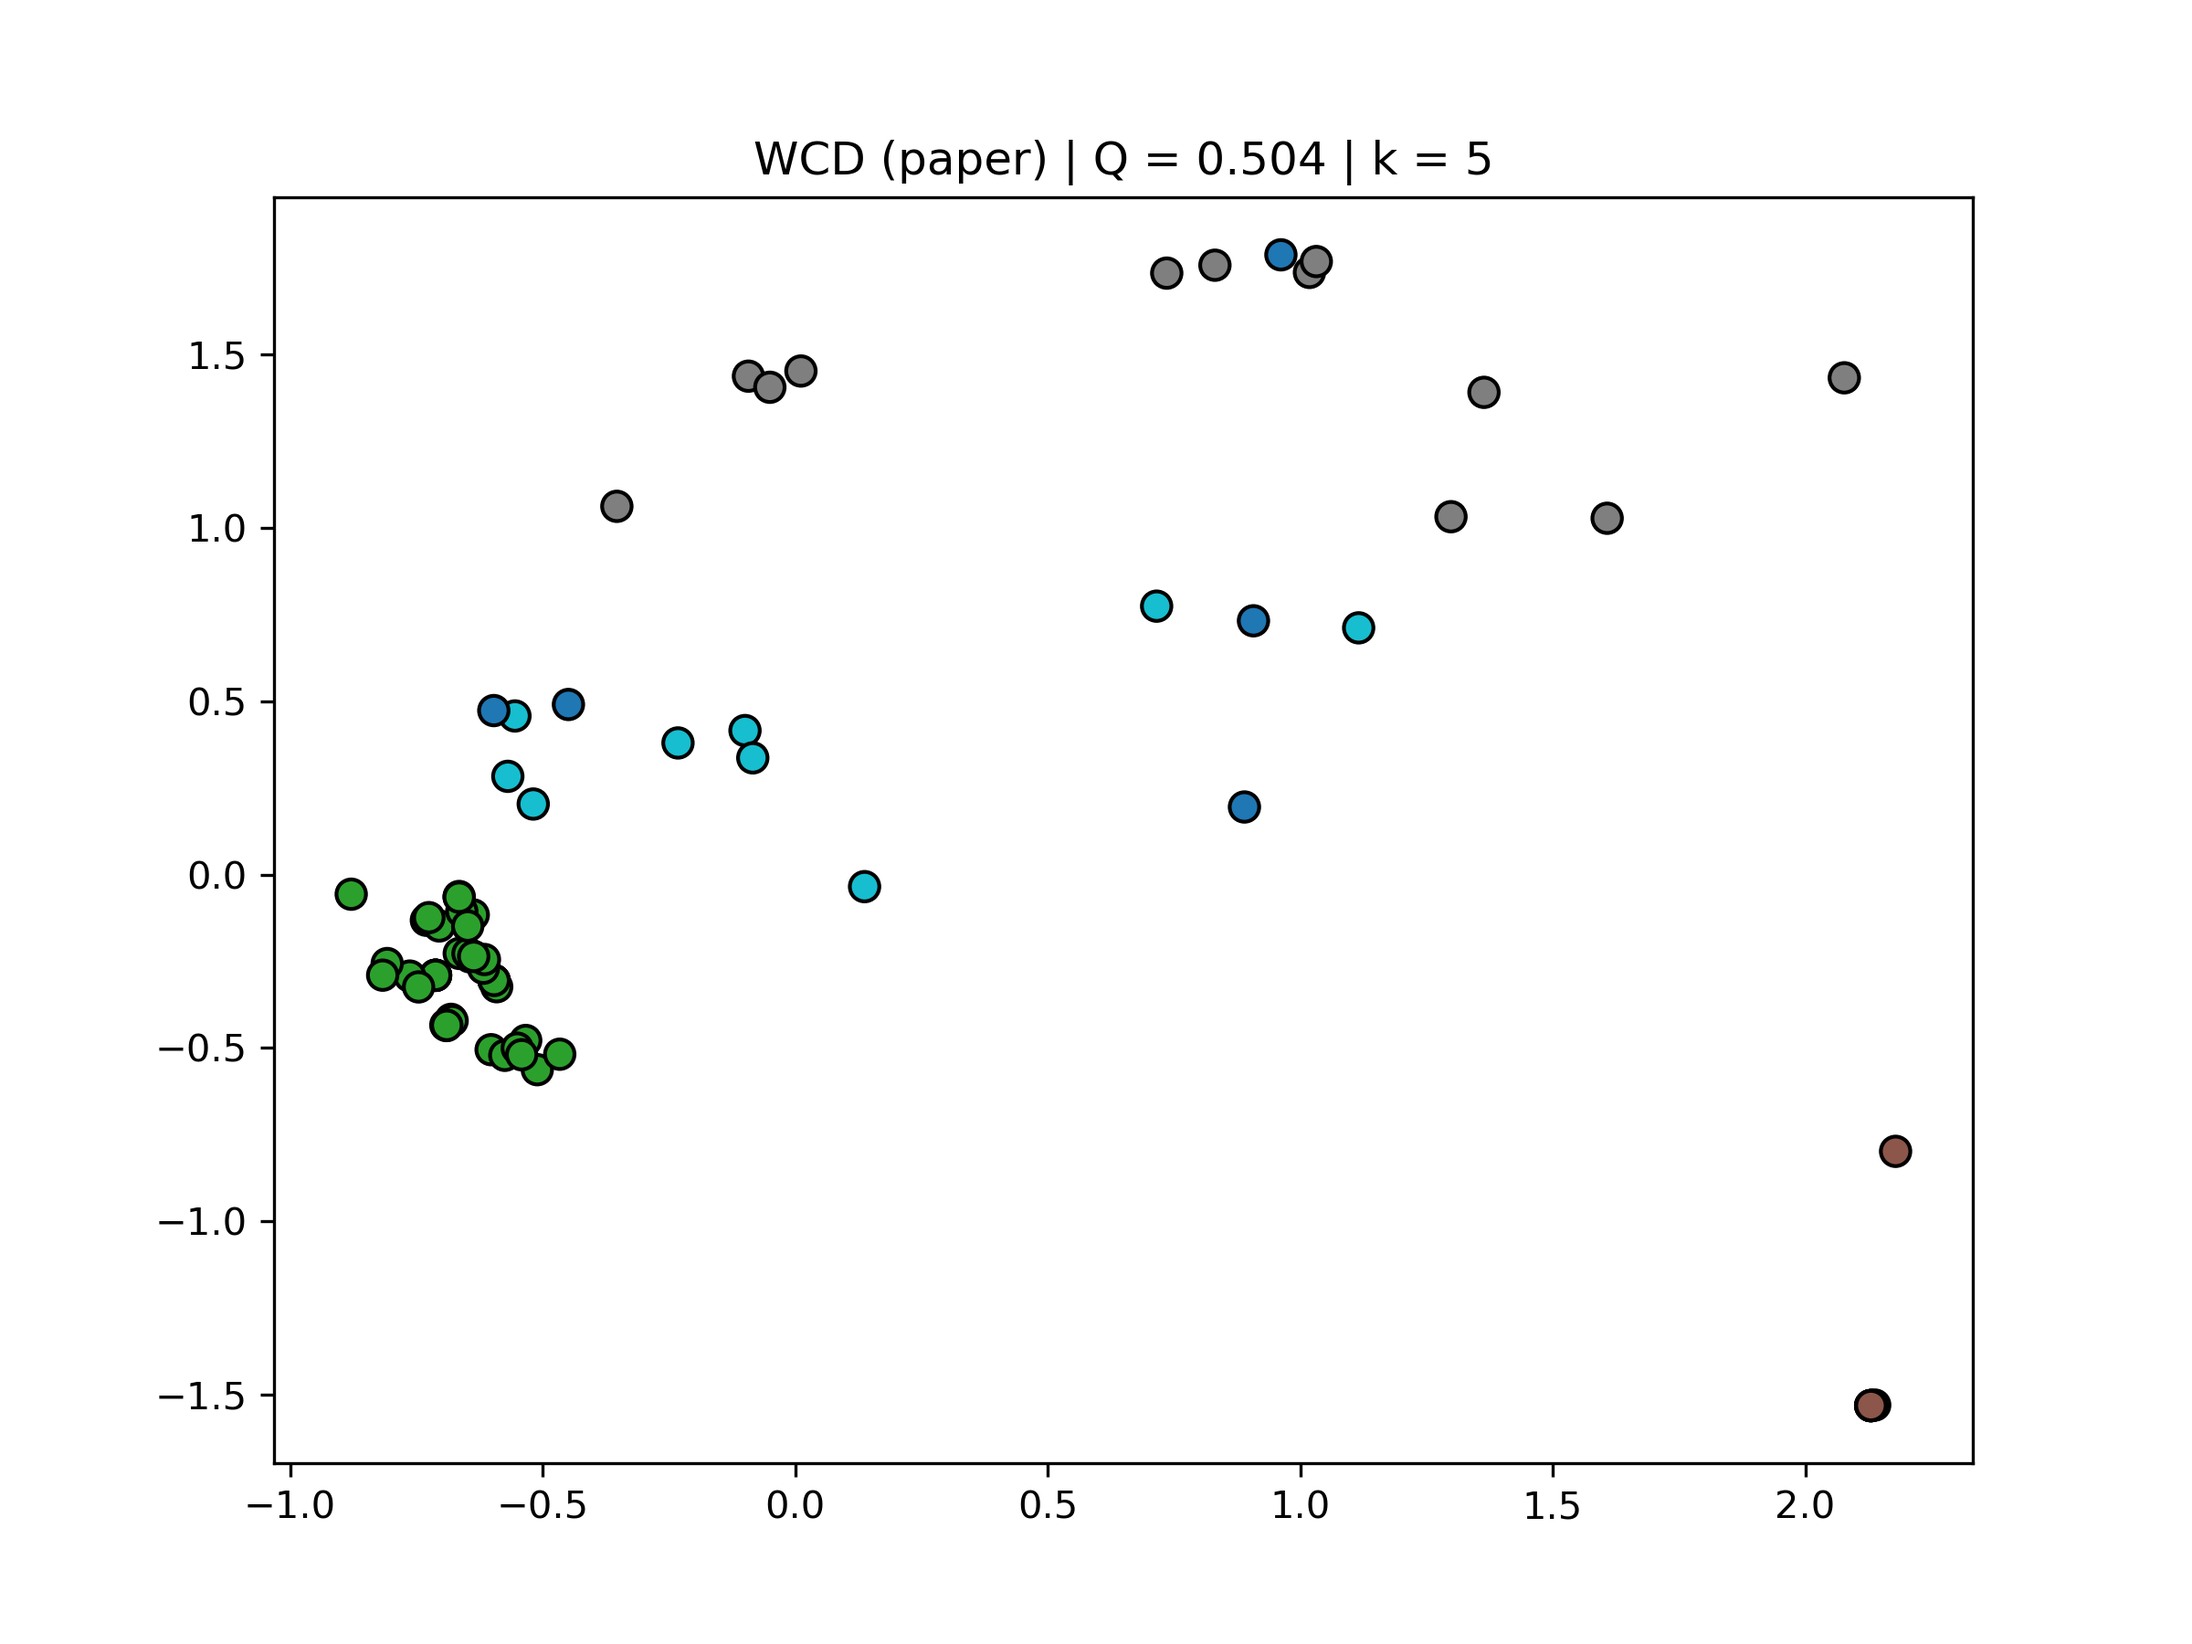
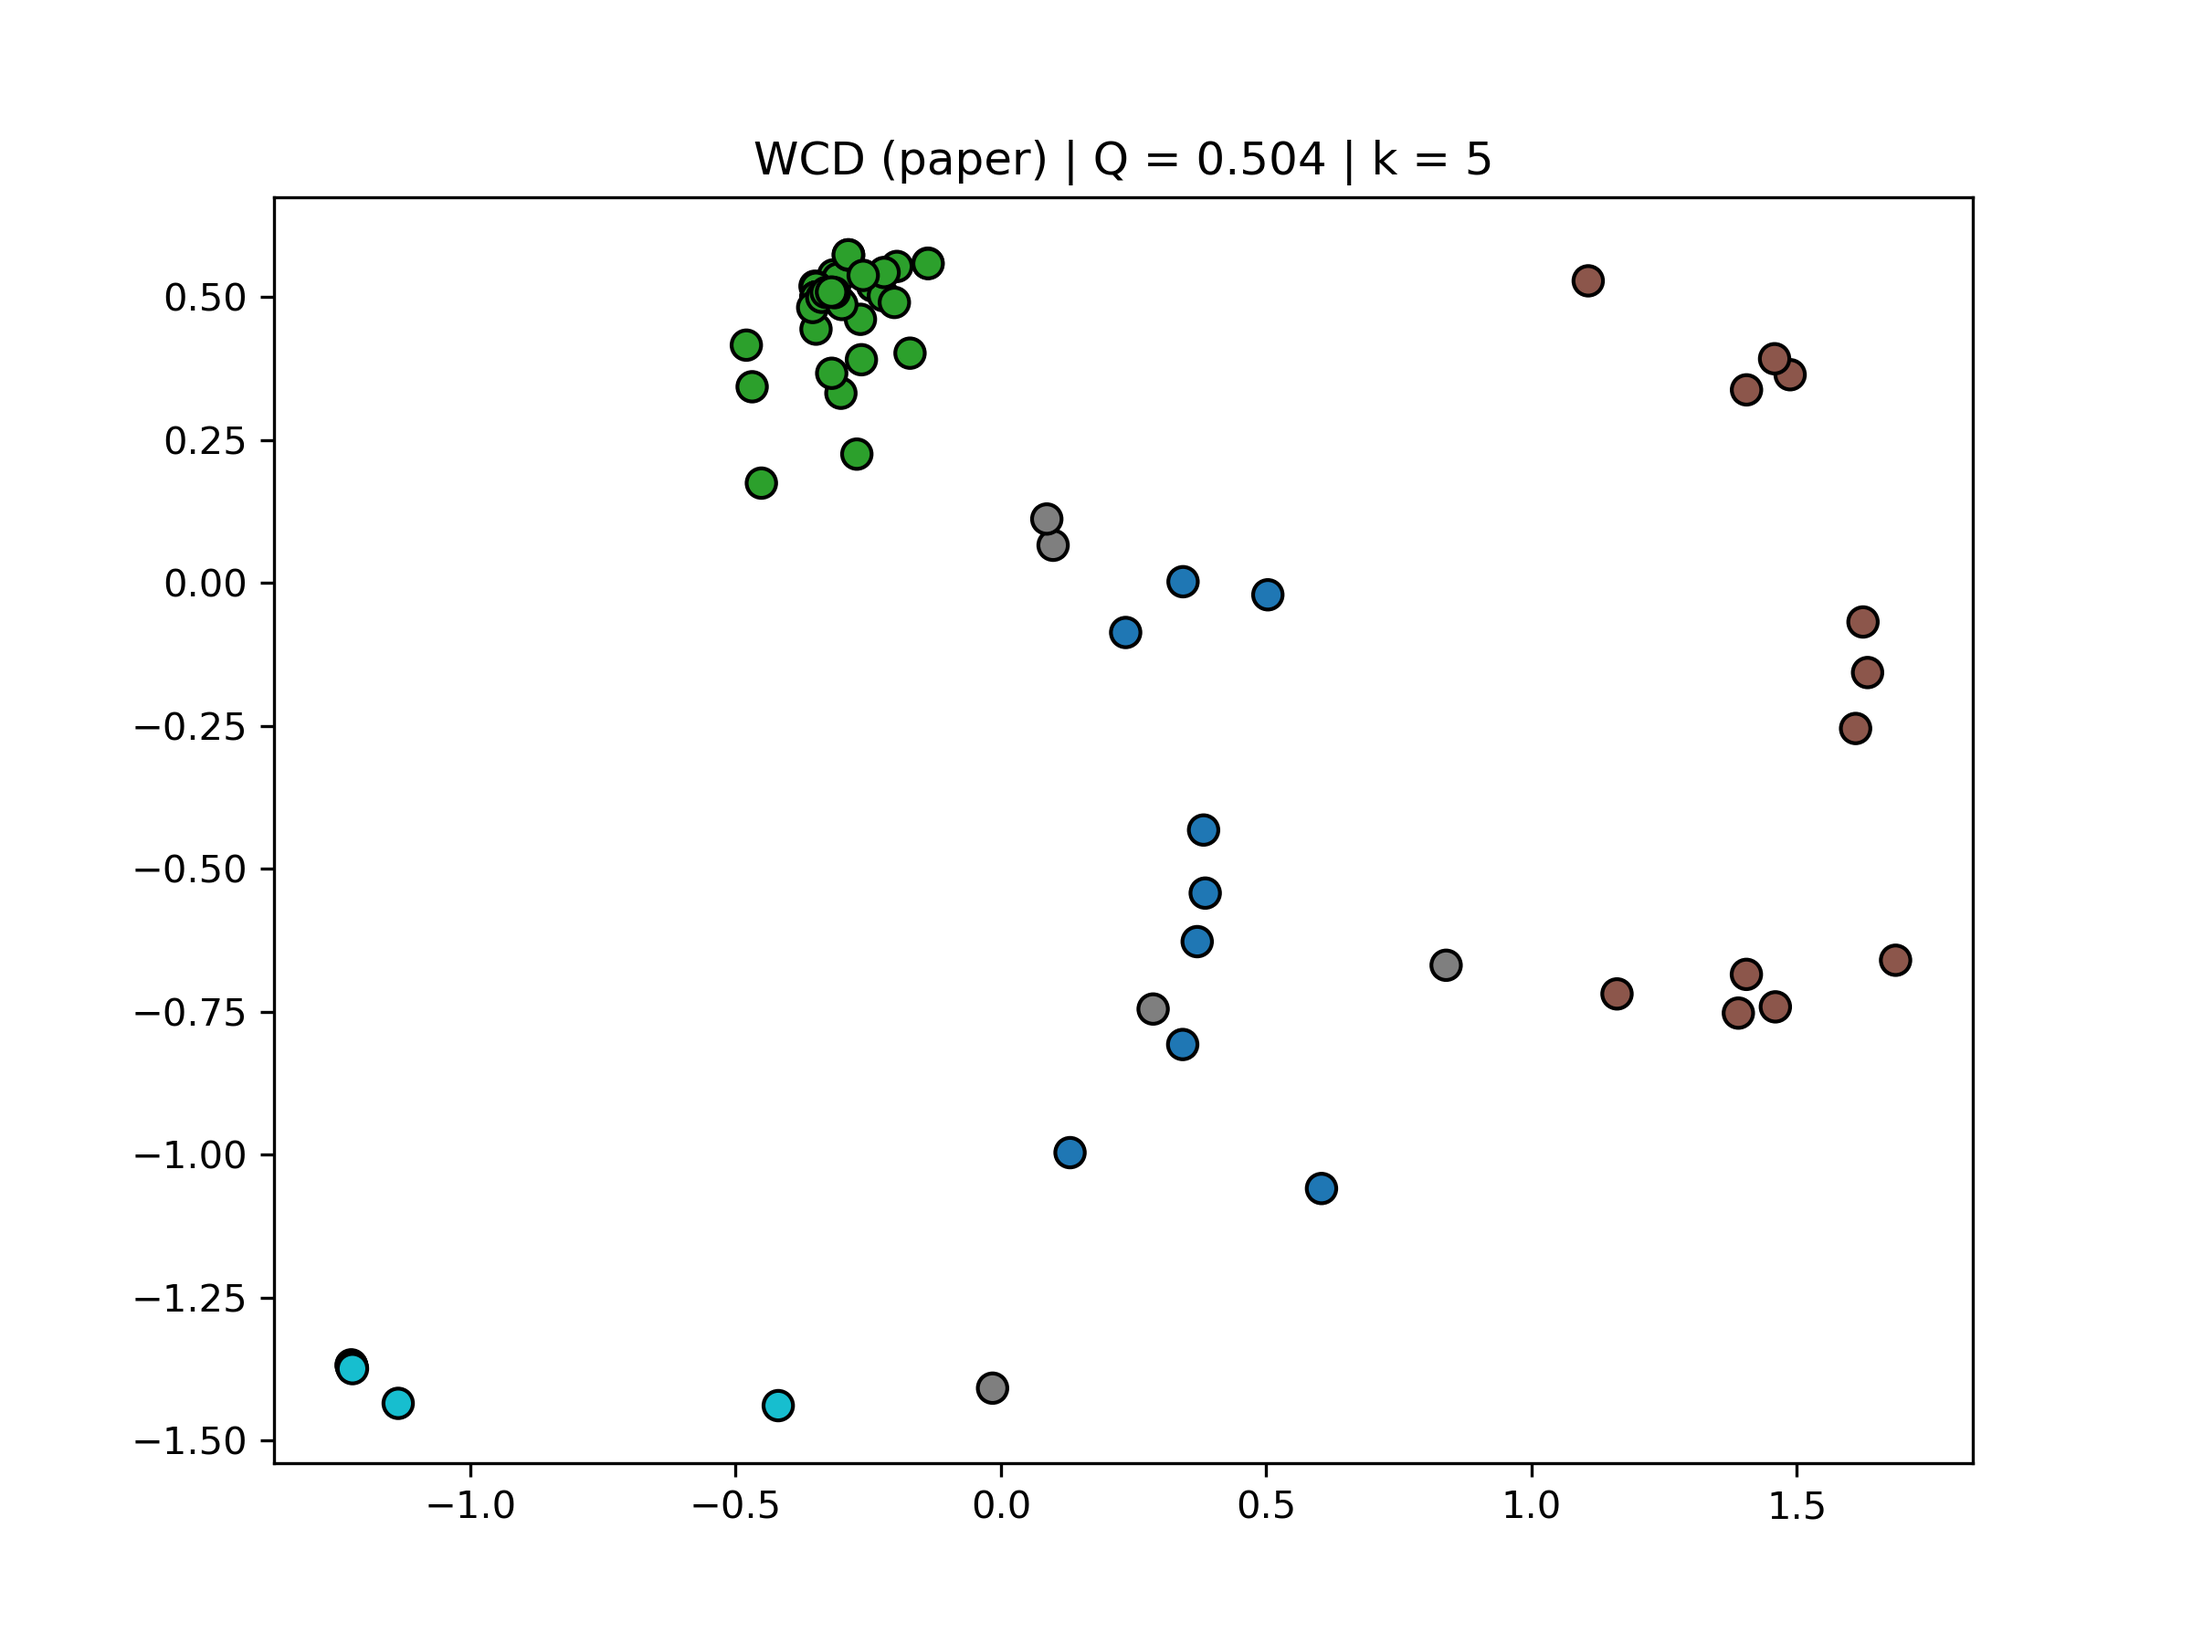
/test/对 lesmis进行初步参数确认，优化到0.5

diff --git a/wcd_fixed_time.py b/wcd_fixed_time.py
@@ -194,7 +194,7 @@ def main():
     set_seed(0)
 
     # 输入数据路径（请根据实际情况修改）
-    input_path = Path("football.txt")          # 示例数据集
+    input_path = Path("lesmis.txt")          # 示例数据集
     dataset_name = input_path.stem
     out_dir = Path(f"wcd_paper_{dataset_name}")
     out_dir.mkdir(parents=True, exist_ok=True)
@@ -209,7 +209,7 @@ def main():
     A = (W > 0).astype(int)                   # 未加权邻接矩阵
 
     # ---------- 算法 1：计算三个特征矩阵 ----------
-    X = compute_X(W, A, alpha=0.5, beta=0.5)  # 相似性矩阵（公式 1）
+    X = compute_X(W, A, alpha=0.9, beta=0.1)  # 相似性矩阵（公式 1）
     Z = compute_Z(A)                          # 二阶邻接矩阵
     Qm = compute_modularity_matrix(W)         # 模块度矩阵（公式 3）
 
